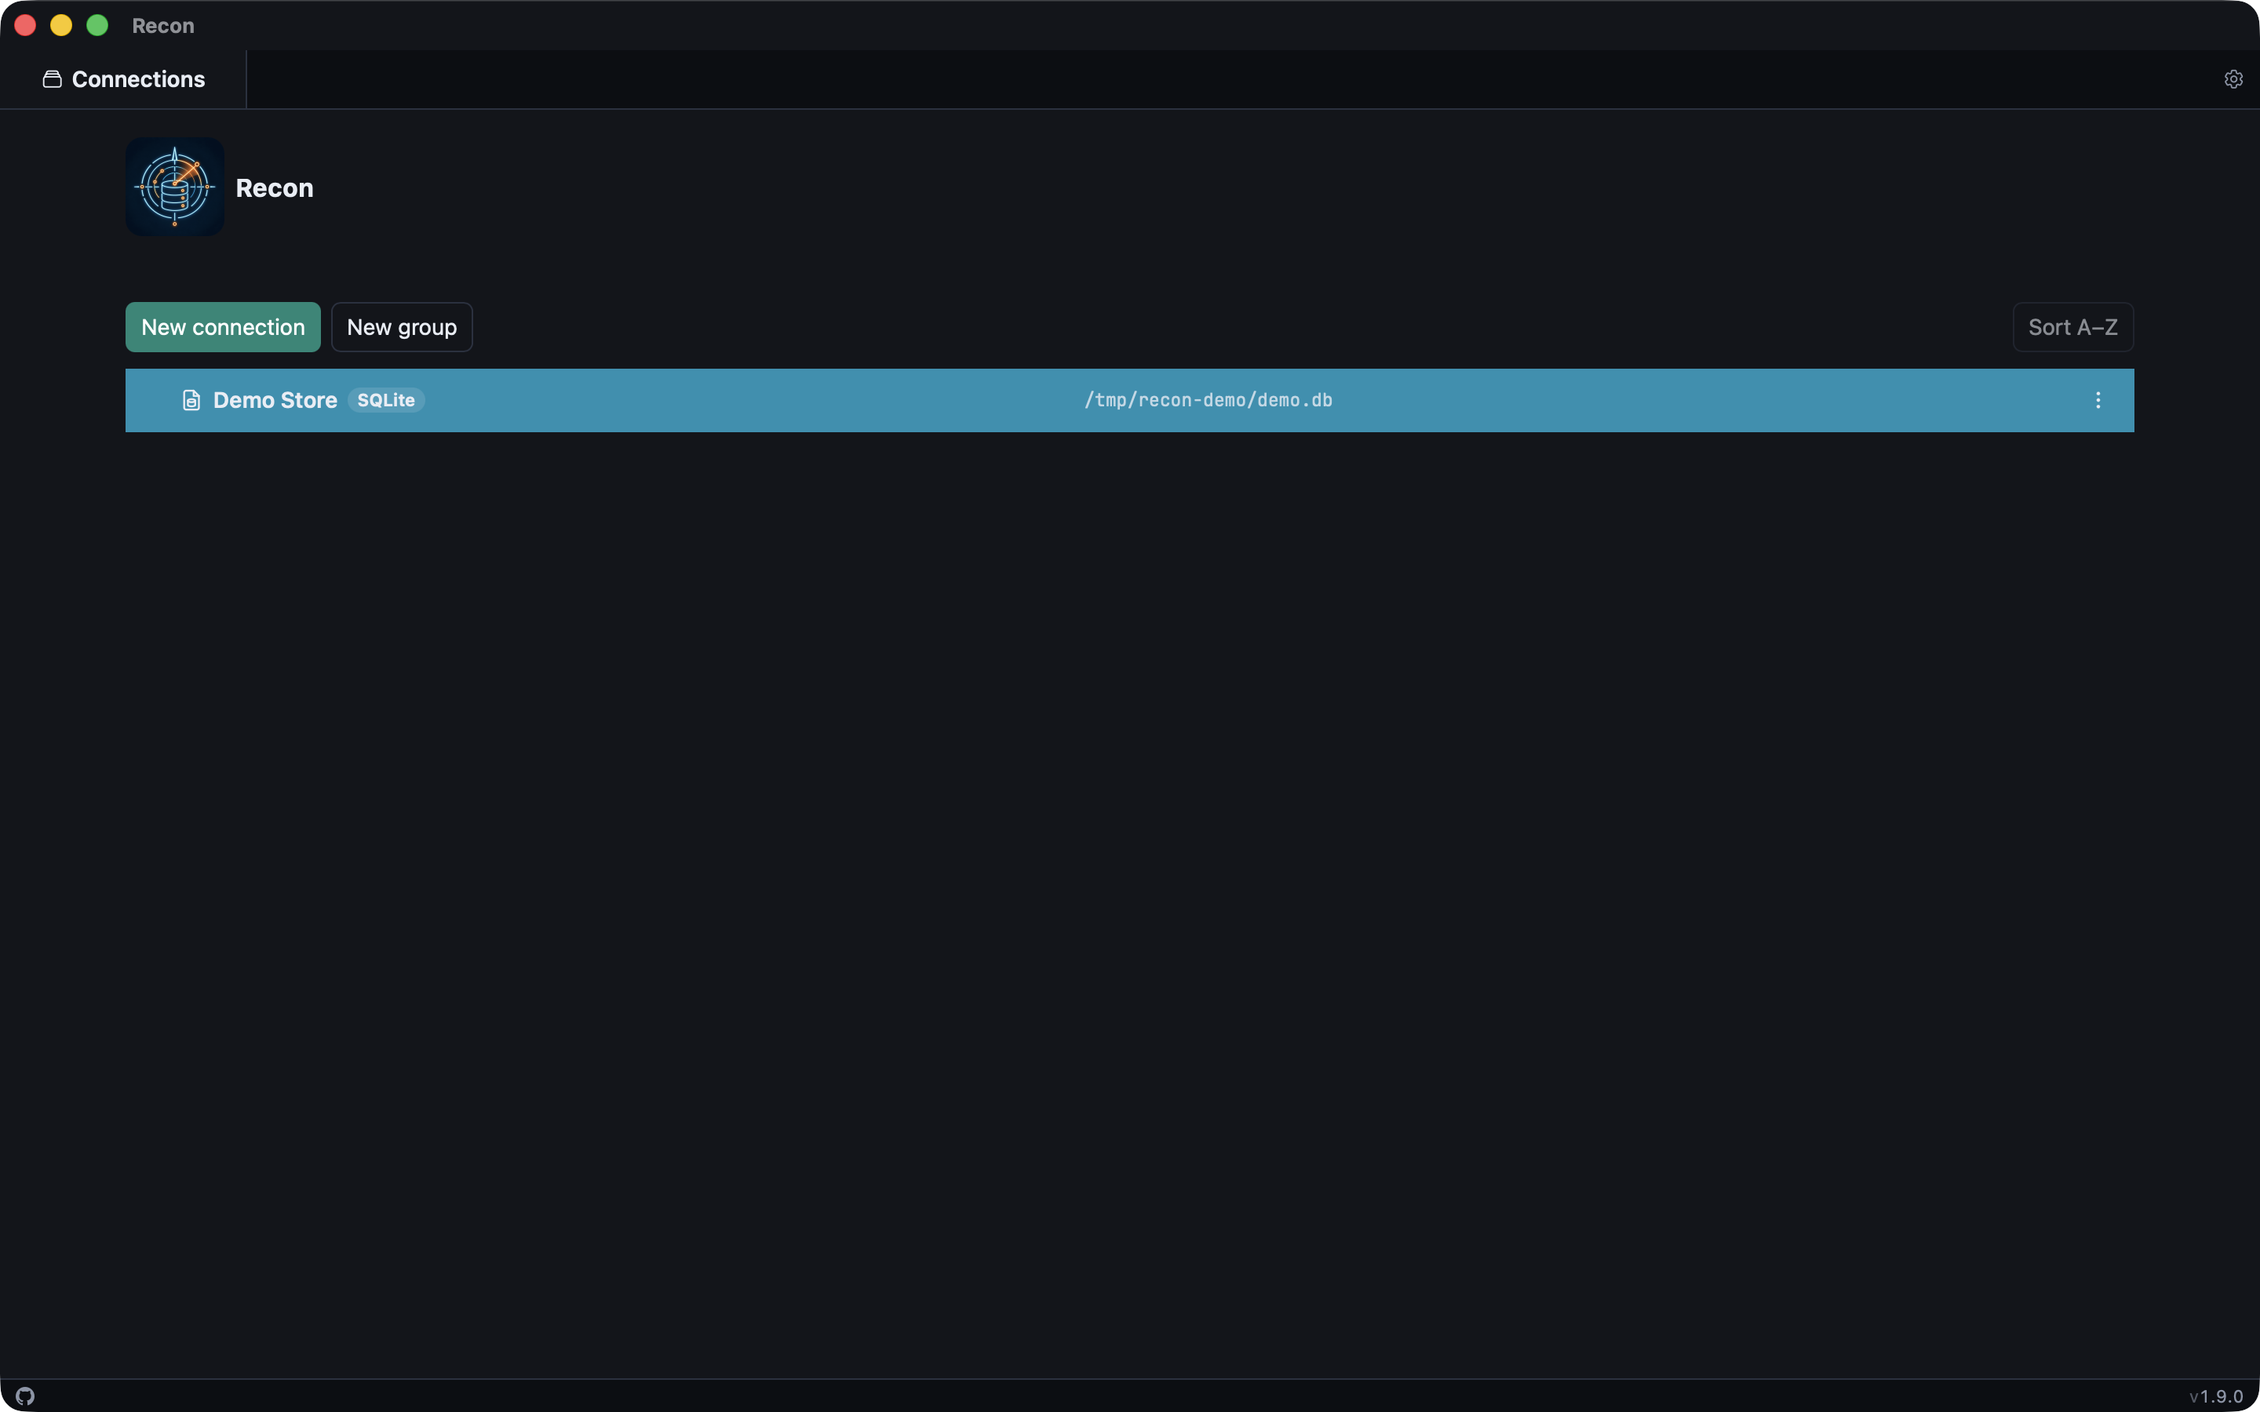
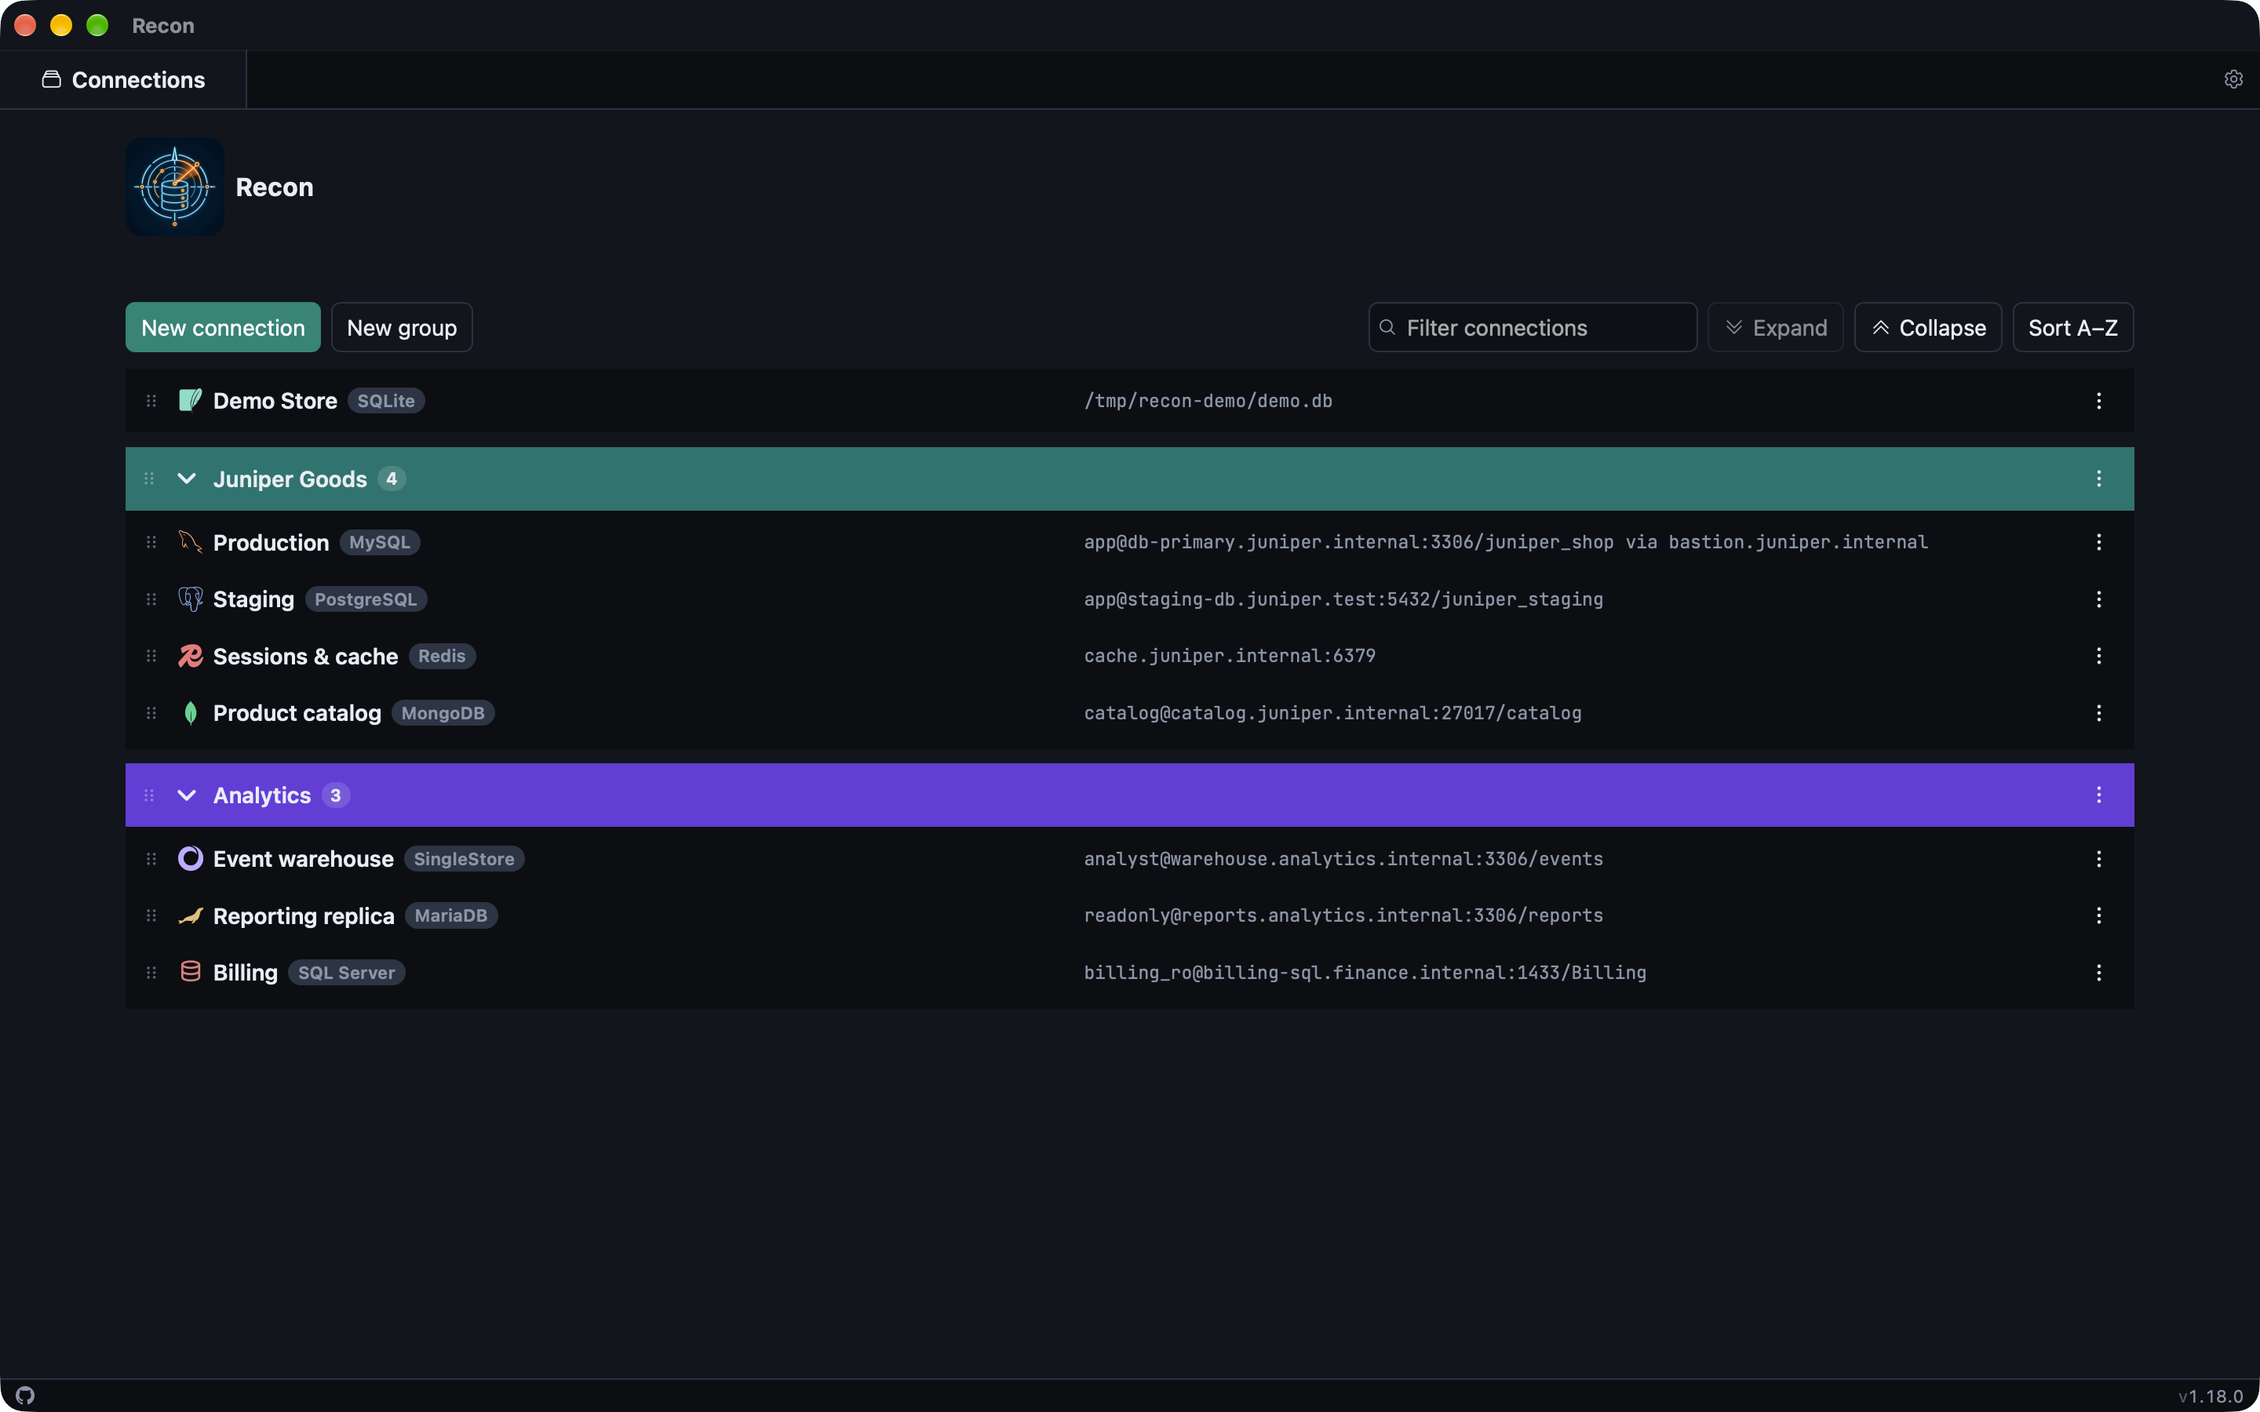
refresh readme screenshots and demo gif from 1.18.0 with fake demo data

diff --git a/scripts/capture/setup-demo-connection.ts b/scripts/capture/setup-demo-connection.ts
@@ -22,42 +22,94 @@ const APP_DATA_DIR = path.join(ISOLATED_HOME, "Library", "Application Support", 
 // Ensure directories exist
 fs.mkdirSync(APP_DATA_DIR, { recursive: true });
 
-// Create the settings.json with a demo connection
+// Fake connections for the dashboard. Only "Demo Store" (SQLite) is opened by
+// the capture; the others exist to show groups and every driver icon, and
+// point at made-up .internal/.test hosts. Every id contains "demo-connection"
+// so localstorage.py purge-demo removes any webview state they leave behind.
+type Kind = { driver: string; flavor?: string };
+function conn(
+  id: string,
+  name: string,
+  kind: Kind,
+  fields: Partial<{ host: string; port: number; user: string; database: string; filePath: string; headerColor: string; sshHost: string }>,
+) {
+  return {
+    id: `demo-connection${id ? `-${id}` : ""}`,
+    name,
+    driver: kind.driver,
+    ...(kind.flavor ? { flavor: kind.flavor } : {}),
+    host: fields.host ?? "",
+    port: fields.port ?? 0,
+    user: fields.user ?? "",
+    database: fields.database ?? "",
+    filePath: fields.filePath ?? "",
+    sslMode: "prefer",
+    headerColor: fields.headerColor ?? "",
+    savePassword: kind.driver === "sqlite",
+    cleartextAuth: false,
+    passwordSource: "password",
+    awsRegion: "",
+    awsProfile: "",
+    passwordCommand: "",
+    sslCaPath: "",
+    sslCertPath: "",
+    sslKeyPath: "",
+    ssh: {
+      enabled: Boolean(fields.sshHost),
+      host: fields.sshHost ?? "",
+      port: 22,
+      user: fields.sshHost ? "deploy" : "",
+      auth: "key",
+      keyPath: fields.sshHost ? "~/.ssh/id_ed25519" : "",
+      alsoPassword: false,
+    },
+  };
+}
+
 const settings = {
-  groups: [],
-  connections: [
+  groups: [
     {
-      id: "demo-connection",
-      name: "Demo Store",
-      driver: "sqlite",
-      host: "",
-      port: 0,
-      user: "",
-      database: "",
-      filePath: DB_PATH,
-      sslMode: "prefer",
-      headerColor: "#0891b2", // Cyan color for demo
-      savePassword: true,
-      cleartextAuth: false,
-      passwordSource: "password",
-      awsRegion: "",
-      awsProfile: "",
-      passwordCommand: "",
-      sslCaPath: "",
-      sslCertPath: "",
-      sslKeyPath: "",
-      ssh: {
-        enabled: false,
-        host: "",
-        port: 22,
-        user: "",
-        auth: "password",
-        keyPath: "",
-        alsoPassword: false
-      }
-    }
+      id: "demo-connection-group-shop",
+      name: "Juniper Goods",
+      expanded: true,
+      headerColor: "#0f766e",
+      connections: [
+        conn("shop-prod", "Production", { driver: "mysql" }, {
+          host: "db-primary.juniper.internal", port: 3306, user: "app", database: "juniper_shop", sshHost: "bastion.juniper.internal",
+        }),
+        conn("shop-staging", "Staging", { driver: "postgres" }, {
+          host: "staging-db.juniper.test", port: 5432, user: "app", database: "juniper_staging",
+        }),
+        conn("shop-sessions", "Sessions & cache", { driver: "redis" }, {
+          host: "cache.juniper.internal", port: 6379, database: "0",
+        }),
+        conn("shop-catalog", "Product catalog", { driver: "mongodb" }, {
+          host: "catalog.juniper.internal", port: 27017, user: "catalog", database: "catalog",
+        }),
+      ],
+    },
+    {
+      id: "demo-connection-group-analytics",
+      name: "Analytics",
+      expanded: true,
+      headerColor: "#6d28d9",
+      connections: [
+        conn("warehouse", "Event warehouse", { driver: "mysql", flavor: "singlestore" }, {
+          host: "warehouse.analytics.internal", port: 3306, user: "analyst", database: "events",
+        }),
+        conn("reporting", "Reporting replica", { driver: "mysql", flavor: "mariadb" }, {
+          host: "reports.analytics.internal", port: 3306, user: "readonly", database: "reports",
+        }),
+        conn("billing", "Billing", { driver: "mssql" }, {
+          host: "billing-sql.finance.internal", port: 1433, user: "billing_ro", database: "Billing",
+        }),
+      ],
+    },
   ],
-  dashboardOrder: ["demo-connection"],
+  connections: [
+    conn("", "Demo Store", { driver: "sqlite" }, { filePath: DB_PATH }),
+  ],
+  dashboardOrder: ["demo-connection", "demo-connection-group-shop", "demo-connection-group-analytics"],
   savedQueries: [],
   theme: "dark",
   editorFontFamily: "jetbrains",
@@ -87,7 +139,7 @@ fs.writeFileSync(settingsPath, JSON.stringify(settings, null, 2));
 console.log(`✓ Demo connection configured in isolated app data`);
 console.log(`  App data: ${APP_DATA_DIR}`);
 console.log(`  Settings: ${settingsPath}`);
-console.log(`  Connection: "${settings.connections[0].name}" → ${DB_PATH}`);
+console.log(`  Connections: "${settings.connections[0].name}" → ${DB_PATH}, plus ${settings.groups.length} groups of fake servers`);
 console.log("");
 console.log(`To use this isolated environment, run the app with:`);
 console.log(`  HOME="${ISOLATED_HOME}" /Applications/Recon.app/Contents/MacOS/Recon`);

diff --git a/scripts/capture/generate-demo-db.ts b/scripts/capture/generate-demo-db.ts
@@ -299,10 +299,16 @@ const streets = ["Main St", "Oak Ave", "Maple Dr", "Pine Ln", "Cedar Rd", "Elm S
 
 // Insert 50 customers
 const customerIds = [];
+const usedNames = new Set<string>();
 for (let i = 0; i < 50; i++) {
-  const firstName = rng.pick(firstNames);
-  const lastName = rng.pick(lastNames);
-  const email = `${firstName.toLowerCase()}.${lastName.toLowerCase()}${i > 0 ? i : ''}@example.test`;
+  // Re-pick until the name is new, so emails need no numeric suffix
+  let firstName: string, lastName: string;
+  do {
+    firstName = rng.pick(firstNames);
+    lastName = rng.pick(lastNames);
+  } while (usedNames.has(`${firstName} ${lastName}`));
+  usedNames.add(`${firstName} ${lastName}`);
+  const email = `${firstName.toLowerCase()}.${lastName.toLowerCase()}@example.test`;
   const phone = `555-${String(rng.nextInt(100, 999)).padStart(3, '0')}-${String(rng.nextInt(1000, 9999)).padStart(4, '0')}`;
   
   const result = db.run(
@@ -373,7 +379,8 @@ const productIds = [];
 for (let i = 0; i < 80; i++) {
   const name = productNames[i] || `Product ${i + 1}`;
   const sku = `SKU-${String(i + 1).padStart(4, '0')}`;
-  const price = rng.nextInt(5, 200) * 100;
+  // Shop-style prices such as 75.99 or 24.49
+  const price = rng.nextInt(5, 200) * 100 - rng.pick([1, 1, 51, 5]);
   const stock = rng.nextInt(0, 250);
   
   const result = db.run(

diff --git a/scripts/capture/README.md b/scripts/capture/README.md
@@ -12,7 +12,7 @@ The capture system creates an isolated environment for Recon:
    - Deliberately missing foreign keys (order_items.product_id → products.id has no FK constraint)
    - Believable fake data (no real people or companies)
 
-2. **Connection Setup** (`setup-demo-connection.ts`): Creates an isolated Tauri app data directory with a pre-configured SQLite connection pointing to the demo database.
+2. **Connection Setup** (`setup-demo-connection.ts`): Creates an isolated Tauri app data directory with a SQLite connection pointing to the demo database, plus two groups of fake connections (one per database type, on made-up `.internal`/`.test` hosts) so the dashboard shows groups and every driver icon. Only the SQLite connection is ever opened.
 
 3. **Capture Script** (`capture.sh`): Launches Recon with an isolated `HOME` environment variable, drives the UI using AppleScript/System Events to navigate through the five required screens, captures window screenshots with `screencapture -l`, and records a 10-15 second demo that's converted to an optimized GIF using ffmpeg's palettegen/paletteuse.
 
@@ -59,7 +59,7 @@ On macOS, Tauri's `app_data_dir()` resolves to `~/Library/Application Support/<i
 ### System Requirements
 
 - **macOS** with Apple Silicon (the app is Apple Silicon only)
-- **Recon 1.9.0** installed at `/Applications/Recon.app`
+- **Recon** installed at `/Applications/Recon.app`, or set `RECON_APP_PATH` to another `.app` (for example a build of the current source) to capture that instead
 - **Screen Recording permission** granted to Terminal (or whichever terminal app you use)
 - **Accessibility permission** granted to Terminal (for UI automation via System Events)
 
@@ -104,7 +104,7 @@ This will:
 4. Position and resize the window to 1440×900
 5. Navigate through the five required screens using coordinate-based clicking and capture each:
    - `docs/screenshots/01-connections.png` — Connection dashboard (before opening)
-   - `docs/screenshots/02-table-browser.png` — Table browser (customers, Data tab)
+   - `docs/screenshots/02-table-browser.png` — Table browser (customers, Data tab, filtered to `created_at` starting with `2026-10`)
    - `docs/screenshots/03-query-editor.png` — Query editor (SQL tab with beautified query and results)
    - `docs/screenshots/04-schema-diagram.png` — Schema diagram (with polymorphic edges on and Fit clicked)
    - `docs/screenshots/05-table-structure.png` — Table structure (orders table, Structure tab)
@@ -219,7 +219,7 @@ The GIF recording is optional. If it fails, the script continues and produces th
 1. **Purges demo-only keys** before and after each run (anything containing "demo-connection")
 2. **Saves the user's diagram preference** (`recon.diagramLinks`) before the capture
 3. **Sets all edge types on** (`{"foreign":true,"morph":true,"missing":true}`) for the diagram screenshot
-4. **Restores the original preference** on exit (even if the script fails)
+4. **Restores the original preference** on exit (even if the script fails), along with the `theme` key, which the app mirrors into that storage and the dark demo settings would otherwise overwrite
 
 This ensures:
 - Earlier capture runs don't leak open tabs or editor text into screenshots
@@ -228,21 +228,25 @@ This ensures:
 
 ### Coordinate-Based Clicking
 
-The app's UI is a webview, so accessibility-based clicking doesn't work. Instead, the script uses screen coordinate clicking via `osascript -e 'tell application "System Events" to click at {X,Y}'`.
+The app's UI is a webview, so accessibility-based clicking doesn't work. Instead, the script clicks screen coordinates with real mouse events (see below).
 
 Coordinates are defined relative to a 1024×640 reference window (the 2x retina capture downscaled):
 - Reference coordinates are converted to screen coordinates: `screen_x = 100 + ref_x * 1440 / 1024`
 - **The window must be frontmost before clicking**, and `click_ref` waits until Recon is actually frontmost (up to 10 retries)
 - **Warm-up clicks:** The first click after launch only activates the window and is swallowed, so the script clicks an empty area twice before real navigation
-- AppleScript stderr contains harmless `-25208` errors that name the clicked element; these are ignored
 
-**Verified click targets on Recon 1.9.0:**
+**Verified click targets on Recon 1.18.0:**
 - Connection list row 'Demo Store': (120, 181)
 - Tabs: Tables (62, 85), SQL (120, 85), Diagram (175, 85)
-- Table sidebar filter box: (92, 111), clear button: (167, 111), first table row: (45, 135)
+- Table sidebar filter box: (92, 111), clear button: (140, 111), first table row: (45, 135)
 - Data/Structure/Indexes sub-tabs: Data (219, 134), Structure (273, 134)
-- Diagram pills: '2 foreign keys' (305, 111), '2 polymorphic' (396, 111), '1 missing key' (476, 111), Fit (952, 111)
+- Filter button: (487, 134); in its panel, the `created_at` column in the column list (268, 278), operator menu (400, 162), "starts with" (378, 223), value field (600, 162)
+- Diagram Fit: (952, 111). All edge types are switched on through the stored `recon.diagramLinks` preference, not by clicking the pills
 - SQL editor: editor area (400, 200), Beautify (926, 133), Run (27, 133)
+
+Clicks are real mouse events posted through Quartz (`real_click`), not System Events' `click at`. `click at` sends an accessibility press, which leaves WebKit's keyboard focus ring on every button it touches. After clicking a button that would otherwise stay focused, such as Fit or Structure, the script clicks empty space so the screenshot has no focus ring.
+
+The script targets its own Recon by process ID, so another running Recon, such as a `target/debug` build from `tauri dev`, is left alone.
 
 ### Table Navigation with Sidebar Filter
 
@@ -255,6 +259,20 @@ The `open_table` helper uses the sidebar filter to navigate to tables by name (i
 
 This approach is more robust than clicking fixed sidebar coordinates if table order changes.
 
+### Capturing the current source
+
+The installed app may be older than the code. To capture what's on `main`, build it and wrap the binary in a copy of the installed bundle, so it keeps the `com.recon.app` identity and storage paths:
+
+```bash
+bun run tauri build --no-bundle
+cp -R /Applications/Recon.app /tmp/recon-demo/Recon.app
+cp src-tauri/target/release/Recon /tmp/recon-demo/Recon.app/Contents/MacOS/Recon
+codesign --force --deep -s - /tmp/recon-demo/Recon.app
+RECON_APP_PATH=/tmp/recon-demo/Recon.app ./scripts/capture/capture.sh
+```
+
+Update `CFBundleShortVersionString` in the copy's `Info.plist` too if you want the version to match.
+
 ### Window ID Detection
 
 The script uses inline JXA to find the CGWindowID needed for `screencapture -l`:
@@ -262,7 +280,7 @@ The script uses inline JXA to find the CGWindowID needed for `screencapture -l`:
 ```javascript
 ObjC.import("CoreGraphics"); 
 var l=ObjC.deepUnwrap(ObjC.castRefToObject($.CGWindowListCopyWindowInfo($.kCGWindowListOptionOnScreenOnly,0))); 
-l.filter(w=>w.kCGWindowOwnerName=="Recon"&&w.kCGWindowLayer==0).map(w=>w.kCGWindowNumber).join("")
+l.filter(w=>w.kCGWindowOwnerPID==APP_PID&&w.kCGWindowLayer==0).map(w=>w.kCGWindowNumber).join("")
 ```
 
 The window ID is queried twice: once after launch, and again after resizing (the ID can change).

diff --git a/README.md b/README.md
@@ -150,15 +150,15 @@ SSH tunnels use `/usr/bin/ssh` and HTTPS certificate downloads use `/usr/bin/cur
 ### Connection Dashboard
 
 <p align="center">
-  <img src="docs/screenshots/01-connections.png" alt="Connection dashboard with grouped connections" width="100%">
+  <img src="docs/screenshots/01-connections.png" alt="Connection dashboard with color-coded groups of MySQL, PostgreSQL, Redis, MongoDB, SingleStore, MariaDB, SQL Server, and SQLite connections" width="100%">
 </p>
 
-Organize database connections into groups with custom colors. All credentials are stored securely in the macOS Keychain, Windows Credential Manager, or the Linux system keyring.
+Organize database connections into color-coded groups, each labeled with its database type, and filter, collapse, or sort them. All credentials are stored securely in the macOS Keychain, Windows Credential Manager, or the Linux system keyring.
 
 ### Table Browser
 
 <p align="center">
-  <img src="docs/screenshots/02-table-browser.png" alt="Table browser with data grid and filter panel" width="100%">
+  <img src="docs/screenshots/02-table-browser.png" alt="Table browser showing customers filtered to October sign-ups" width="100%">
 </p>
 
 Browse table data with filtering, sorting, and inline editing. The visual filter builder supports complex conditions without writing SQL.
